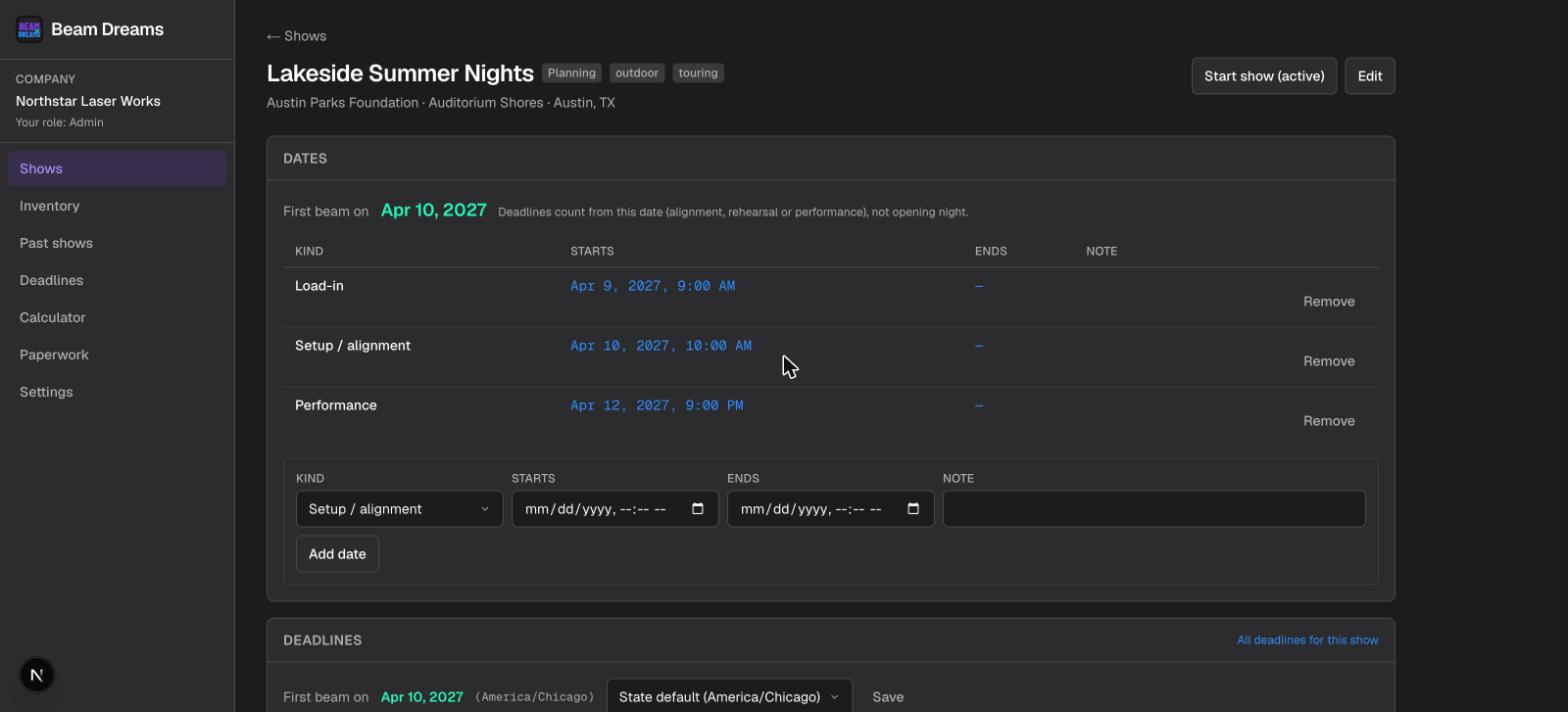
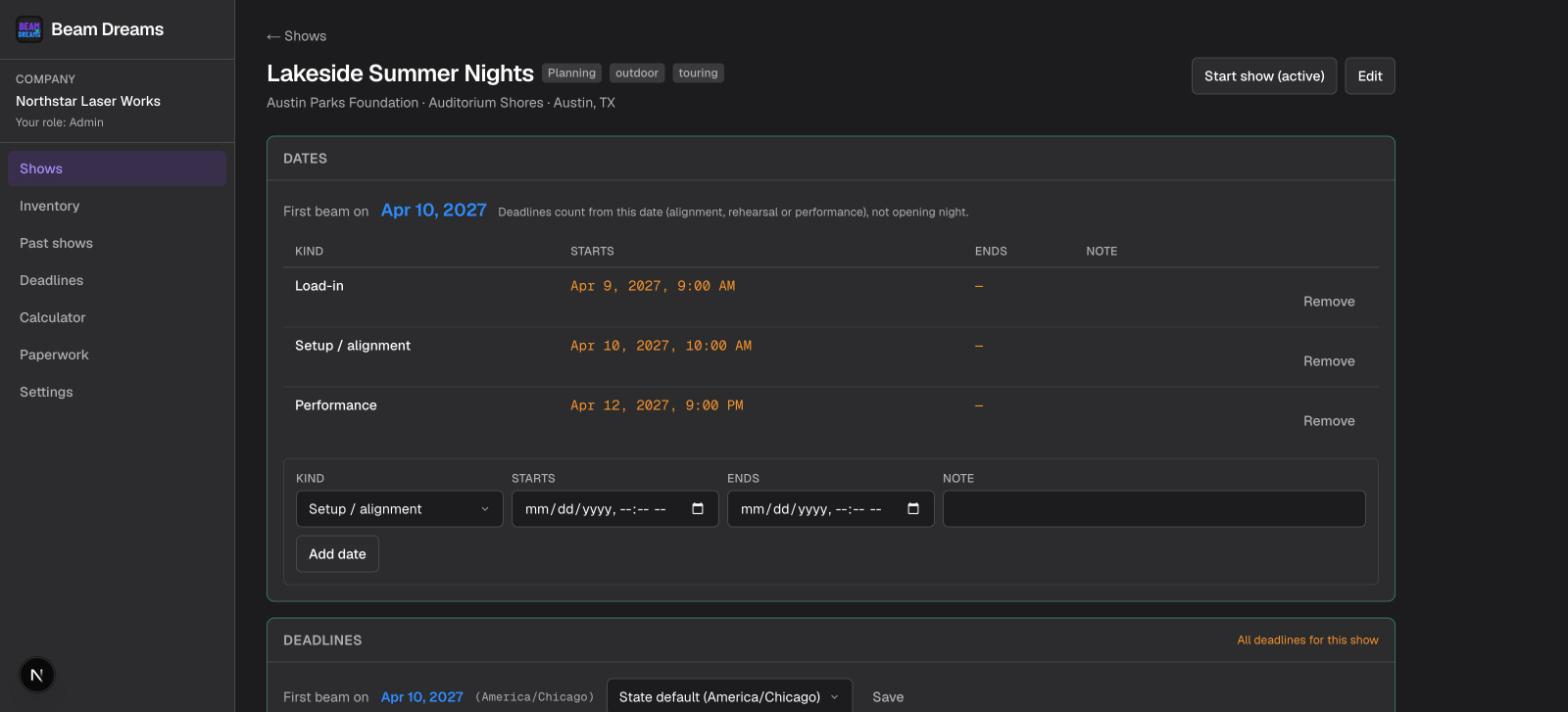
Palette revision: orange info, blue highlights, cyan edges; new screenshots

diff --git a/beta/index.html b/beta/index.html
@@ -18,7 +18,7 @@
 <link href="https://fonts.googleapis.com/css2?family=Archivo:wght@500;700;900&family=Spline+Sans+Mono:wght@400;500&display=swap" rel="stylesheet">
 <style>
   :root{
-    --black:#141414;--purple:#7c3aed;--violet:#a78bfa;--blue:#2e8bff;--cyan:#00f5b8;
+    --black:#141414;--purple:#7c3aed;--violet:#a78bfa;--orange:#f5912b;--blue:#2e8bff;--cyan:#00f5b8;--edge:rgba(0,245,184,.45);
     --ink:#f7f6f3;--dim:#aeaeb2;--line:#2c2c2e;--panel:#1c1c1e;
   }
   *{margin:0;padding:0;box-sizing:border-box}
@@ -26,36 +26,36 @@
     display:flex;align-items:center;justify-content:center;text-align:center;padding:56px 24px;-webkit-font-smoothing:antialiased}
   .card{max-width:760px;width:100%}
   .logo{width:108px;height:108px;border-radius:24px;margin:0 auto 28px;display:block}
-  .eyebrow{font-family:'Spline Sans Mono',monospace;font-size:13px;letter-spacing:4px;color:var(--cyan);text-transform:uppercase;margin-bottom:16px}
-  .get{font-weight:700;font-size:clamp(20px,5vw,28px);color:var(--blue);letter-spacing:-.5px;margin-bottom:2px}
+  .eyebrow{font-family:'Spline Sans Mono',monospace;font-size:13px;letter-spacing:4px;color:var(--blue);text-transform:uppercase;margin-bottom:16px}
+  .get{font-weight:700;font-size:clamp(20px,5vw,28px);color:var(--orange);letter-spacing:-.5px;margin-bottom:2px}
   h1{font-weight:900;font-size:clamp(38px,10vw,60px);line-height:.98;letter-spacing:-1.5px;margin-bottom:18px;color:var(--violet)}
-  h1 .d{color:var(--blue)}
+  h1 .d{color:var(--orange)}
   .tagline{font-family:'Spline Sans Mono',monospace;margin:0 auto 20px;max-width:420px;line-height:1.5}
   .tag-lead{display:block;font-size:13px;color:var(--dim);letter-spacing:.5px;margin-bottom:6px;font-style:italic}
-  .tag-pay{display:block;font-size:15px;color:var(--cyan);letter-spacing:2px;text-transform:uppercase;font-weight:500}
+  .tag-pay{display:block;font-size:15px;color:var(--blue);letter-spacing:2px;text-transform:uppercase;font-weight:500}
   p.lede{font-size:17px;color:var(--dim);margin-bottom:34px;line-height:1.55}
   .btn{font-family:'Archivo';font-weight:700;font-size:16px;border:none;cursor:pointer;text-decoration:none;
     background:var(--purple);color:#fff;padding:16px 32px;border-radius:9px;transition:.18s;display:inline-block}
   .btn:hover{background:#8b5cf6;transform:translateY(-1px)}
   .btn.alt{background:var(--panel);color:var(--ink);border:1px solid var(--line)}
-  .btn.alt:hover{border-color:var(--blue);background:#222226}
+  .btn.alt:hover{border-color:var(--orange);background:#222226}
   .meta{font-family:'Spline Sans Mono',monospace;font-size:12px;color:var(--dim);margin-top:18px;letter-spacing:.5px;line-height:1.8}
-  .meta b{color:var(--blue);font-weight:500}
-  .meta a{color:var(--blue);text-decoration:none}
-  .meta a.c{color:var(--cyan)} .meta a.v{color:var(--violet)}
-  .shot{margin:44px auto 0;max-width:680px;width:100%;height:auto;border-radius:12px;border:1px solid var(--line);display:block;box-shadow:0 24px 60px rgba(0,0,0,.55)}
+  .meta b{color:var(--orange);font-weight:500}
+  .meta a{color:var(--orange);text-decoration:none}
+  .meta a.c{color:var(--blue)} .meta a.v{color:var(--violet)}
+  .shot{margin:44px auto 0;max-width:680px;width:100%;height:auto;border-radius:12px;border:1px solid var(--edge);display:block;box-shadow:0 24px 60px rgba(0,0,0,.55)}
   .rule{height:1px;background:var(--line);margin:44px auto 30px;max-width:340px}
   .note{font-family:'Spline Sans Mono',monospace;font-size:12px;color:var(--dim);margin-top:14px;letter-spacing:.5px;min-height:16px}
   .dlform{display:flex;flex-direction:column;gap:12px;max-width:380px;margin:0 auto}
   .dlform input,.dlform select{background:var(--panel);border:1px solid var(--line);color:var(--ink);font-family:'Archivo';font-size:15px;padding:15px 18px;border-radius:9px;text-align:center}
   .dlform select{text-align:center;appearance:none;-webkit-appearance:none}
-  .dlform input:focus,.dlform select:focus{outline:none;border-color:var(--cyan)}
+  .dlform input:focus,.dlform select:focus{outline:none;border-color:var(--blue)}
   .dlform .btn{width:100%}
   .btn:disabled{background:#2c2c2e;color:var(--dim);cursor:default;transform:none}
   .pillars{display:grid;grid-template-columns:repeat(auto-fit,minmax(190px,1fr));gap:12px;margin:34px auto 0;max-width:680px;text-align:left}
-  .pillar{background:var(--panel);border:1px solid var(--line);border-radius:12px;padding:16px}
+  .pillar{background:var(--panel);border:1px solid var(--edge);border-radius:12px;padding:16px}
   .pillar h3{font-size:14px;font-weight:700;margin-bottom:6px}
-  .pillar h3.p{color:var(--violet)} .pillar h3.b{color:var(--blue)} .pillar h3.c{color:var(--cyan)}
+  .pillar h3.p{color:var(--violet)} .pillar h3.b{color:var(--orange)} .pillar h3.c{color:var(--blue)}
   .pillar p{font-size:13px;color:var(--dim);line-height:1.5}
   @media(prefers-reduced-motion:reduce){.btn:hover{transform:none}}
 </style>
@@ -93,7 +93,7 @@
         <div style="height:10px"></div>
         <a class="btn alt" id="opentf" href="#" target="_blank" rel="noopener">Get the iPhone app (TestFlight)</a>
       </div>
-      <p class="note" id="note2" style="color:var(--cyan)"></p>
+      <p class="note" id="note2" style="color:var(--blue)"></p>
       <p class="meta"><a class="c" href="/beta/about">About &rarr;</a> &nbsp;·&nbsp; <a href="/beta/start">Getting started &rarr;</a> &nbsp;·&nbsp; <a class="v" href="/beta/changelog">What's new &rarr;</a></p>
     </div>
 

diff --git a/beta/thanks.html b/beta/thanks.html
@@ -10,14 +10,14 @@
 <link rel="preconnect" href="https://fonts.gstatic.com" crossorigin>
 <link href="https://fonts.googleapis.com/css2?family=Archivo:wght@500;700;900&family=Spline+Sans+Mono:wght@400;500&display=swap" rel="stylesheet">
 <style>
-  :root{--black:#141414;--purple:#7c3aed;--violet:#a78bfa;--blue:#2e8bff;--cyan:#00f5b8;--ink:#f7f6f3;--dim:#aeaeb2;--line:#2c2c2e;--panel:#1c1c1e}
+  :root{--black:#141414;--purple:#7c3aed;--violet:#a78bfa;--orange:#f5912b;--blue:#2e8bff;--cyan:#00f5b8;--edge:rgba(0,245,184,.45);--ink:#f7f6f3;--dim:#aeaeb2;--line:#2c2c2e;--panel:#1c1c1e}
   *{margin:0;padding:0;box-sizing:border-box}
   body{background:var(--black);color:var(--ink);min-height:100vh;font-family:'Archivo',sans-serif;-webkit-font-smoothing:antialiased;display:flex;justify-content:center;padding:56px 24px}
   .card{max-width:520px;width:100%}
   .top{display:flex;align-items:center;gap:12px;margin-bottom:30px}
   .top img{width:46px;height:46px;border-radius:12px}
   .top a{margin-left:auto;font-family:'Spline Sans Mono',monospace;font-size:13px;color:var(--dim);text-decoration:none}
-  .top a:hover{color:var(--cyan)}
+  .top a:hover{color:var(--blue)}
   .eyebrow{font-family:'Spline Sans Mono',monospace;font-size:13px;letter-spacing:4px;text-transform:uppercase;margin-bottom:14px}
   h1{font-weight:900;font-size:clamp(32px,8vw,46px);line-height:1;letter-spacing:-1.2px;margin-bottom:14px}
   p.lede{font-size:16px;color:var(--dim);margin-bottom:30px;line-height:1.55}
@@ -25,28 +25,28 @@
   .field{margin-bottom:22px}
   input,textarea,select{width:100%;background:var(--panel);border:1px solid var(--line);color:var(--ink);font-family:'Archivo';font-size:15px;padding:13px 15px;border-radius:9px}
   select{appearance:none;-webkit-appearance:none}
-  input:focus,textarea:focus,select:focus{outline:none;border-color:var(--cyan)}
+  input:focus,textarea:focus,select:focus{outline:none;border-color:var(--blue)}
   textarea{resize:vertical;min-height:140px}
   .btn{font-family:'Archivo';font-weight:700;font-size:16px;border:none;cursor:pointer;width:100%;background:var(--purple);color:#fff;padding:16px;border-radius:9px;transition:.18s;margin-top:4px}
   .btn:hover{background:#8b5cf6}
   .btn:disabled{opacity:.45;cursor:default}
   .status{font-family:'Spline Sans Mono',monospace;font-size:13px;margin-top:16px;text-align:center;min-height:18px}
   .drop{display:block;padding:44px 24px;border:1.5px dashed var(--line);border-radius:12px;text-align:center;color:var(--dim);cursor:pointer;transition:.18s;background:var(--panel)}
-  .drop:hover,.drop.over{border-color:var(--cyan);color:var(--ink)}
+  .drop:hover,.drop.over{border-color:var(--blue);color:var(--ink)}
   .drop .big{font-size:17px;color:var(--ink);font-weight:700;margin-bottom:6px}
-  .drop .sub{font-size:13px} .drop b{color:var(--cyan);font-weight:500} .drop input{display:none}
+  .drop .sub{font-size:13px} .drop b{color:var(--blue);font-weight:500} .drop input{display:none}
   #fileList{margin-top:16px;text-align:left}
-  .item{font-family:'Spline Sans Mono',monospace;font-size:13px;color:var(--blue);background:var(--panel);border:1px solid var(--line);border-radius:8px;padding:10px 14px;margin-top:8px;display:flex;justify-content:space-between;align-items:center}
+  .item{font-family:'Spline Sans Mono',monospace;font-size:13px;color:var(--orange);background:var(--panel);border:1px solid var(--line);border-radius:8px;padding:10px 14px;margin-top:8px;display:flex;justify-content:space-between;align-items:center}
   .item .x{color:var(--dim);cursor:pointer;font-size:16px;line-height:1} .item .x:hover{color:var(--violet)}
   .small{font-family:'Spline Sans Mono',monospace;font-size:12px;color:var(--dim);text-align:center;margin-top:24px;letter-spacing:.5px}
   .small a{text-decoration:none}
   body{align-items:center;text-align:center}
   .card{max-width:480px}
   img.l{width:54px;height:54px;border-radius:14px;margin-bottom:26px}
-  .check{display:inline-flex;align-items:center;justify-content:center;width:72px;height:72px;border-radius:50%;background:rgba(0,245,184,.12);color:var(--cyan);font-size:34px;margin-bottom:22px}
+  .check{display:inline-flex;align-items:center;justify-content:center;width:72px;height:72px;border-radius:50%;background:rgba(46,139,255,.15);color:var(--blue);box-shadow:0 0 0 1px var(--edge);font-size:34px;margin-bottom:22px}
   p{font-size:16px;color:var(--dim);margin-bottom:30px;line-height:1.55}
-  a.back{font-family:'Spline Sans Mono',monospace;font-size:13px;letter-spacing:1px;color:var(--blue);text-decoration:none;border:1px solid var(--line);padding:12px 22px;border-radius:9px;display:inline-block;transition:.18s}
-  a.back:hover{border-color:var(--cyan);color:var(--ink)}
+  a.back{font-family:'Spline Sans Mono',monospace;font-size:13px;letter-spacing:1px;color:var(--orange);text-decoration:none;border:1px solid var(--line);padding:12px 22px;border-radius:9px;display:inline-block;transition:.18s}
+  a.back:hover{border-color:var(--blue);color:var(--ink)}
 </style>
 </head>
 <body>

diff --git a/beta/report.html b/beta/report.html
@@ -10,14 +10,14 @@
 <link rel="preconnect" href="https://fonts.gstatic.com" crossorigin>
 <link href="https://fonts.googleapis.com/css2?family=Archivo:wght@500;700;900&family=Spline+Sans+Mono:wght@400;500&display=swap" rel="stylesheet">
 <style>
-  :root{--black:#141414;--purple:#7c3aed;--violet:#a78bfa;--blue:#2e8bff;--cyan:#00f5b8;--ink:#f7f6f3;--dim:#aeaeb2;--line:#2c2c2e;--panel:#1c1c1e}
+  :root{--black:#141414;--purple:#7c3aed;--violet:#a78bfa;--orange:#f5912b;--blue:#2e8bff;--cyan:#00f5b8;--edge:rgba(0,245,184,.45);--ink:#f7f6f3;--dim:#aeaeb2;--line:#2c2c2e;--panel:#1c1c1e}
   *{margin:0;padding:0;box-sizing:border-box}
   body{background:var(--black);color:var(--ink);min-height:100vh;font-family:'Archivo',sans-serif;-webkit-font-smoothing:antialiased;display:flex;justify-content:center;padding:56px 24px}
   .card{max-width:520px;width:100%}
   .top{display:flex;align-items:center;gap:12px;margin-bottom:30px}
   .top img{width:46px;height:46px;border-radius:12px}
   .top a{margin-left:auto;font-family:'Spline Sans Mono',monospace;font-size:13px;color:var(--dim);text-decoration:none}
-  .top a:hover{color:var(--cyan)}
+  .top a:hover{color:var(--blue)}
   .eyebrow{font-family:'Spline Sans Mono',monospace;font-size:13px;letter-spacing:4px;text-transform:uppercase;margin-bottom:14px}
   h1{font-weight:900;font-size:clamp(32px,8vw,46px);line-height:1;letter-spacing:-1.2px;margin-bottom:14px}
   p.lede{font-size:16px;color:var(--dim);margin-bottom:30px;line-height:1.55}
@@ -25,18 +25,18 @@
   .field{margin-bottom:22px}
   input,textarea,select{width:100%;background:var(--panel);border:1px solid var(--line);color:var(--ink);font-family:'Archivo';font-size:15px;padding:13px 15px;border-radius:9px}
   select{appearance:none;-webkit-appearance:none}
-  input:focus,textarea:focus,select:focus{outline:none;border-color:var(--cyan)}
+  input:focus,textarea:focus,select:focus{outline:none;border-color:var(--blue)}
   textarea{resize:vertical;min-height:140px}
   .btn{font-family:'Archivo';font-weight:700;font-size:16px;border:none;cursor:pointer;width:100%;background:var(--purple);color:#fff;padding:16px;border-radius:9px;transition:.18s;margin-top:4px}
   .btn:hover{background:#8b5cf6}
   .btn:disabled{opacity:.45;cursor:default}
   .status{font-family:'Spline Sans Mono',monospace;font-size:13px;margin-top:16px;text-align:center;min-height:18px}
-  .drop{display:block;padding:44px 24px;border:1.5px dashed var(--line);border-radius:12px;text-align:center;color:var(--dim);cursor:pointer;transition:.18s;background:var(--panel)}
-  .drop:hover,.drop.over{border-color:var(--cyan);color:var(--ink)}
+  .drop{display:block;padding:44px 24px;border:1.5px dashed var(--edge);border-radius:12px;text-align:center;color:var(--dim);cursor:pointer;transition:.18s;background:var(--panel)}
+  .drop:hover,.drop.over{border-color:var(--blue);color:var(--ink)}
   .drop .big{font-size:17px;color:var(--ink);font-weight:700;margin-bottom:6px}
-  .drop .sub{font-size:13px} .drop b{color:var(--cyan);font-weight:500} .drop input{display:none}
+  .drop .sub{font-size:13px} .drop b{color:var(--blue);font-weight:500} .drop input{display:none}
   #fileList{margin-top:16px;text-align:left}
-  .item{font-family:'Spline Sans Mono',monospace;font-size:13px;color:var(--blue);background:var(--panel);border:1px solid var(--line);border-radius:8px;padding:10px 14px;margin-top:8px;display:flex;justify-content:space-between;align-items:center}
+  .item{font-family:'Spline Sans Mono',monospace;font-size:13px;color:var(--orange);background:var(--panel);border:1px solid var(--line);border-radius:8px;padding:10px 14px;margin-top:8px;display:flex;justify-content:space-between;align-items:center}
   .item .x{color:var(--dim);cursor:pointer;font-size:16px;line-height:1} .item .x:hover{color:var(--violet)}
   .small{font-family:'Spline Sans Mono',monospace;font-size:12px;color:var(--dim);text-align:center;margin-top:24px;letter-spacing:.5px}
   .small a{text-decoration:none}
@@ -68,7 +68,7 @@
       <button type="submit" class="btn" id="submit" disabled>Send report</button>
       <p class="status" id="status"></p>
     </form>
-    <p class="small">Just a thought? <a href="/beta/feedback" style="color:var(--blue)">Send feedback &rarr;</a> &nbsp;·&nbsp; <a href="mailto:support@beamdreams.art" style="color:var(--blue)">support@beamdreams.art</a></p>
+    <p class="small">Just a thought? <a href="/beta/feedback" style="color:var(--orange)">Send feedback &rarr;</a> &nbsp;·&nbsp; <a href="mailto:support@beamdreams.art" style="color:var(--orange)">support@beamdreams.art</a></p>
   </div>
 <script>
   var input=document.getElementById('files'),drop=document.getElementById('drop'),list=document.getElementById('fileList'),

diff --git a/beta/feedback.html b/beta/feedback.html
@@ -10,14 +10,14 @@
 <link rel="preconnect" href="https://fonts.gstatic.com" crossorigin>
 <link href="https://fonts.googleapis.com/css2?family=Archivo:wght@500;700;900&family=Spline+Sans+Mono:wght@400;500&display=swap" rel="stylesheet">
 <style>
-  :root{--black:#141414;--purple:#7c3aed;--violet:#a78bfa;--blue:#2e8bff;--cyan:#00f5b8;--ink:#f7f6f3;--dim:#aeaeb2;--line:#2c2c2e;--panel:#1c1c1e}
+  :root{--black:#141414;--purple:#7c3aed;--violet:#a78bfa;--orange:#f5912b;--blue:#2e8bff;--cyan:#00f5b8;--edge:rgba(0,245,184,.45);--ink:#f7f6f3;--dim:#aeaeb2;--line:#2c2c2e;--panel:#1c1c1e}
   *{margin:0;padding:0;box-sizing:border-box}
   body{background:var(--black);color:var(--ink);min-height:100vh;font-family:'Archivo',sans-serif;-webkit-font-smoothing:antialiased;display:flex;justify-content:center;padding:56px 24px}
   .card{max-width:520px;width:100%}
   .top{display:flex;align-items:center;gap:12px;margin-bottom:30px}
   .top img{width:46px;height:46px;border-radius:12px}
   .top a{margin-left:auto;font-family:'Spline Sans Mono',monospace;font-size:13px;color:var(--dim);text-decoration:none}
-  .top a:hover{color:var(--cyan)}
+  .top a:hover{color:var(--blue)}
   .eyebrow{font-family:'Spline Sans Mono',monospace;font-size:13px;letter-spacing:4px;text-transform:uppercase;margin-bottom:14px}
   h1{font-weight:900;font-size:clamp(32px,8vw,46px);line-height:1;letter-spacing:-1.2px;margin-bottom:14px}
   p.lede{font-size:16px;color:var(--dim);margin-bottom:30px;line-height:1.55}
@@ -25,18 +25,18 @@
   .field{margin-bottom:22px}
   input,textarea,select{width:100%;background:var(--panel);border:1px solid var(--line);color:var(--ink);font-family:'Archivo';font-size:15px;padding:13px 15px;border-radius:9px}
   select{appearance:none;-webkit-appearance:none}
-  input:focus,textarea:focus,select:focus{outline:none;border-color:var(--cyan)}
+  input:focus,textarea:focus,select:focus{outline:none;border-color:var(--blue)}
   textarea{resize:vertical;min-height:140px}
   .btn{font-family:'Archivo';font-weight:700;font-size:16px;border:none;cursor:pointer;width:100%;background:var(--purple);color:#fff;padding:16px;border-radius:9px;transition:.18s;margin-top:4px}
   .btn:hover{background:#8b5cf6}
   .btn:disabled{opacity:.45;cursor:default}
   .status{font-family:'Spline Sans Mono',monospace;font-size:13px;margin-top:16px;text-align:center;min-height:18px}
   .drop{display:block;padding:44px 24px;border:1.5px dashed var(--line);border-radius:12px;text-align:center;color:var(--dim);cursor:pointer;transition:.18s;background:var(--panel)}
-  .drop:hover,.drop.over{border-color:var(--cyan);color:var(--ink)}
+  .drop:hover,.drop.over{border-color:var(--blue);color:var(--ink)}
   .drop .big{font-size:17px;color:var(--ink);font-weight:700;margin-bottom:6px}
-  .drop .sub{font-size:13px} .drop b{color:var(--cyan);font-weight:500} .drop input{display:none}
+  .drop .sub{font-size:13px} .drop b{color:var(--blue);font-weight:500} .drop input{display:none}
   #fileList{margin-top:16px;text-align:left}
-  .item{font-family:'Spline Sans Mono',monospace;font-size:13px;color:var(--blue);background:var(--panel);border:1px solid var(--line);border-radius:8px;padding:10px 14px;margin-top:8px;display:flex;justify-content:space-between;align-items:center}
+  .item{font-family:'Spline Sans Mono',monospace;font-size:13px;color:var(--orange);background:var(--panel);border:1px solid var(--line);border-radius:8px;padding:10px 14px;margin-top:8px;display:flex;justify-content:space-between;align-items:center}
   .item .x{color:var(--dim);cursor:pointer;font-size:16px;line-height:1} .item .x:hover{color:var(--violet)}
   .small{font-family:'Spline Sans Mono',monospace;font-size:12px;color:var(--dim);text-align:center;margin-top:24px;letter-spacing:.5px}
   .small a{text-decoration:none}
@@ -45,7 +45,7 @@
 <body>
   <div class="card">
     <div class="top"><img src="logo.png" alt="Beam Dreams"><a href="/beta/">&larr; Back</a></div>
-    <div class="eyebrow" style="color:var(--blue)">Beta feedback</div>
+    <div class="eyebrow" style="color:var(--orange)">Beta feedback</div>
     <h1>Send feedback.</h1>
     <p class="lede">An idea, a request, a rule I got wrong, or just how it's working for you? Drop it here — it comes straight to my inbox.</p>
 

diff --git a/beta/about.html b/beta/about.html
@@ -10,15 +10,15 @@
 <link rel="preconnect" href="https://fonts.gstatic.com" crossorigin>
 <link href="https://fonts.googleapis.com/css2?family=Archivo:wght@400;500;700;900&family=Spline+Sans+Mono:wght@400;500&display=swap" rel="stylesheet">
 <style>
-  :root{--black:#141414;--purple:#7c3aed;--violet:#a78bfa;--blue:#2e8bff;--cyan:#00f5b8;--ink:#f7f6f3;--dim:#aeaeb2;--line:#2c2c2e;--panel:#1c1c1e}
+  :root{--black:#141414;--purple:#7c3aed;--violet:#a78bfa;--orange:#f5912b;--blue:#2e8bff;--cyan:#00f5b8;--edge:rgba(0,245,184,.45);--ink:#f7f6f3;--dim:#aeaeb2;--line:#2c2c2e;--panel:#1c1c1e}
   *{margin:0;padding:0;box-sizing:border-box}
   body{background:var(--black);color:var(--ink);min-height:100vh;font-family:'Archivo',sans-serif;-webkit-font-smoothing:antialiased;display:flex;justify-content:center;padding:56px 24px}
   .card{max-width:680px;width:100%}
   .top{display:flex;align-items:center;gap:12px;margin-bottom:34px}
   .top img{width:46px;height:46px;border-radius:12px}
   .top a{margin-left:auto;font-family:'Spline Sans Mono',monospace;font-size:13px;color:var(--dim);text-decoration:none}
-  .top a:hover{color:var(--cyan)}
-  .eyebrow{font-family:'Spline Sans Mono',monospace;font-size:13px;letter-spacing:4px;color:var(--cyan);text-transform:uppercase;margin-bottom:14px}
+  .top a:hover{color:var(--blue)}
+  .eyebrow{font-family:'Spline Sans Mono',monospace;font-size:13px;letter-spacing:4px;color:var(--blue);text-transform:uppercase;margin-bottom:14px}
   h1{font-weight:900;font-size:clamp(32px,8vw,46px);line-height:1;letter-spacing:-1.2px;margin-bottom:14px}
   h2{font-weight:700;font-size:21px;letter-spacing:-.3px;margin:38px 0 14px;padding-top:28px;border-top:1px solid var(--line)}
   h2:first-of-type{border-top:none;padding-top:0}
@@ -29,15 +29,15 @@
   li{margin-bottom:8px}
   b,strong{color:var(--ink);font-weight:700}
   code{font-family:'Spline Sans Mono',monospace;font-size:13px;background:var(--panel);border:1px solid var(--line);border-radius:5px;padding:2px 6px;color:var(--violet)}
-  .box{background:var(--panel);border:1px solid var(--line);border-radius:12px;padding:6px 24px 22px;margin-top:14px}
-  .tag{display:inline-block;font-family:'Spline Sans Mono',monospace;font-size:11px;letter-spacing:2px;text-transform:uppercase;color:var(--blue);border:1px solid var(--line);border-radius:100px;padding:4px 12px;margin:22px 0 4px}
-  .tag.c{color:var(--cyan)} .tag.v{color:var(--violet)}
-  a.link{color:var(--blue);text-decoration:none} a.link:hover{text-decoration:underline}
+  .box{background:var(--panel);border:1px solid var(--edge);border-radius:12px;padding:6px 24px 22px;margin-top:14px}
+  .tag{display:inline-block;font-family:'Spline Sans Mono',monospace;font-size:11px;letter-spacing:2px;text-transform:uppercase;color:var(--orange);border:1px solid var(--line);border-radius:100px;padding:4px 12px;margin:22px 0 4px}
+  .tag.c{color:var(--blue)} .tag.v{color:var(--violet)}
+  a.link{color:var(--orange);text-decoration:none} a.link:hover{text-decoration:underline}
   .rel{font-family:'Spline Sans Mono',monospace;font-size:13px;color:var(--dim);margin-bottom:34px;letter-spacing:.5px}
-  .rel b{color:var(--blue);font-weight:500}
-  .intro{background:var(--panel);border:1px solid var(--line);border-radius:9px;padding:14px 16px;font-size:14px;margin-bottom:8px}
+  .rel b{color:var(--orange);font-weight:500}
+  .intro{background:var(--panel);border:1px solid var(--edge);border-radius:9px;padding:14px 16px;font-size:14px;margin-bottom:8px}
   .foot{margin-top:40px;padding-top:24px;border-top:1px solid var(--line);font-family:'Spline Sans Mono',monospace;font-size:12px;color:var(--dim);letter-spacing:.5px;line-height:1.8}
-  .foot a{color:var(--blue);text-decoration:none}
+  .foot a{color:var(--orange);text-decoration:none}
 </style>
 </head>
 <body>

diff --git a/beta/changelog.html b/beta/changelog.html
@@ -10,15 +10,15 @@
 <link rel="preconnect" href="https://fonts.gstatic.com" crossorigin>
 <link href="https://fonts.googleapis.com/css2?family=Archivo:wght@400;500;700;900&family=Spline+Sans+Mono:wght@400;500&display=swap" rel="stylesheet">
 <style>
-  :root{--black:#141414;--purple:#7c3aed;--violet:#a78bfa;--blue:#2e8bff;--cyan:#00f5b8;--ink:#f7f6f3;--dim:#aeaeb2;--line:#2c2c2e;--panel:#1c1c1e}
+  :root{--black:#141414;--purple:#7c3aed;--violet:#a78bfa;--orange:#f5912b;--blue:#2e8bff;--cyan:#00f5b8;--edge:rgba(0,245,184,.45);--ink:#f7f6f3;--dim:#aeaeb2;--line:#2c2c2e;--panel:#1c1c1e}
   *{margin:0;padding:0;box-sizing:border-box}
   body{background:var(--black);color:var(--ink);min-height:100vh;font-family:'Archivo',sans-serif;-webkit-font-smoothing:antialiased;display:flex;justify-content:center;padding:56px 24px}
   .card{max-width:680px;width:100%}
   .top{display:flex;align-items:center;gap:12px;margin-bottom:34px}
   .top img{width:46px;height:46px;border-radius:12px}
   .top a{margin-left:auto;font-family:'Spline Sans Mono',monospace;font-size:13px;color:var(--dim);text-decoration:none}
-  .top a:hover{color:var(--cyan)}
-  .eyebrow{font-family:'Spline Sans Mono',monospace;font-size:13px;letter-spacing:4px;color:var(--cyan);text-transform:uppercase;margin-bottom:14px}
+  .top a:hover{color:var(--blue)}
+  .eyebrow{font-family:'Spline Sans Mono',monospace;font-size:13px;letter-spacing:4px;color:var(--blue);text-transform:uppercase;margin-bottom:14px}
   h1{font-weight:900;font-size:clamp(32px,8vw,46px);line-height:1;letter-spacing:-1.2px;margin-bottom:14px}
   h2{font-weight:700;font-size:21px;letter-spacing:-.3px;margin:38px 0 14px;padding-top:28px;border-top:1px solid var(--line)}
   h2:first-of-type{border-top:none;padding-top:0}
@@ -29,15 +29,15 @@
   li{margin-bottom:8px}
   b,strong{color:var(--ink);font-weight:700}
   code{font-family:'Spline Sans Mono',monospace;font-size:13px;background:var(--panel);border:1px solid var(--line);border-radius:5px;padding:2px 6px;color:var(--violet)}
-  .box{background:var(--panel);border:1px solid var(--line);border-radius:12px;padding:6px 24px 22px;margin-top:14px}
-  .tag{display:inline-block;font-family:'Spline Sans Mono',monospace;font-size:11px;letter-spacing:2px;text-transform:uppercase;color:var(--blue);border:1px solid var(--line);border-radius:100px;padding:4px 12px;margin:22px 0 4px}
-  .tag.c{color:var(--cyan)} .tag.v{color:var(--violet)}
-  a.link{color:var(--blue);text-decoration:none} a.link:hover{text-decoration:underline}
+  .box{background:var(--panel);border:1px solid var(--edge);border-radius:12px;padding:6px 24px 22px;margin-top:14px}
+  .tag{display:inline-block;font-family:'Spline Sans Mono',monospace;font-size:11px;letter-spacing:2px;text-transform:uppercase;color:var(--orange);border:1px solid var(--line);border-radius:100px;padding:4px 12px;margin:22px 0 4px}
+  .tag.c{color:var(--blue)} .tag.v{color:var(--violet)}
+  a.link{color:var(--orange);text-decoration:none} a.link:hover{text-decoration:underline}
   .rel{font-family:'Spline Sans Mono',monospace;font-size:13px;color:var(--dim);margin-bottom:34px;letter-spacing:.5px}
-  .rel b{color:var(--blue);font-weight:500}
-  .intro{background:var(--panel);border:1px solid var(--line);border-radius:9px;padding:14px 16px;font-size:14px;margin-bottom:8px}
+  .rel b{color:var(--orange);font-weight:500}
+  .intro{background:var(--panel);border:1px solid var(--edge);border-radius:9px;padding:14px 16px;font-size:14px;margin-bottom:8px}
   .foot{margin-top:40px;padding-top:24px;border-top:1px solid var(--line);font-family:'Spline Sans Mono',monospace;font-size:12px;color:var(--dim);letter-spacing:.5px;line-height:1.8}
-  .foot a{color:var(--blue);text-decoration:none}
+  .foot a{color:var(--orange);text-decoration:none}
 </style>
 </head>
 <body>

diff --git a/beta/start.html b/beta/start.html
@@ -10,15 +10,15 @@
 <link rel="preconnect" href="https://fonts.gstatic.com" crossorigin>
 <link href="https://fonts.googleapis.com/css2?family=Archivo:wght@400;500;700;900&family=Spline+Sans+Mono:wght@400;500&display=swap" rel="stylesheet">
 <style>
-  :root{--black:#141414;--purple:#7c3aed;--violet:#a78bfa;--blue:#2e8bff;--cyan:#00f5b8;--ink:#f7f6f3;--dim:#aeaeb2;--line:#2c2c2e;--panel:#1c1c1e}
+  :root{--black:#141414;--purple:#7c3aed;--violet:#a78bfa;--orange:#f5912b;--blue:#2e8bff;--cyan:#00f5b8;--edge:rgba(0,245,184,.45);--ink:#f7f6f3;--dim:#aeaeb2;--line:#2c2c2e;--panel:#1c1c1e}
   *{margin:0;padding:0;box-sizing:border-box}
   body{background:var(--black);color:var(--ink);min-height:100vh;font-family:'Archivo',sans-serif;-webkit-font-smoothing:antialiased;display:flex;justify-content:center;padding:56px 24px}
   .card{max-width:680px;width:100%}
   .top{display:flex;align-items:center;gap:12px;margin-bottom:34px}
   .top img{width:46px;height:46px;border-radius:12px}
   .top a{margin-left:auto;font-family:'Spline Sans Mono',monospace;font-size:13px;color:var(--dim);text-decoration:none}
-  .top a:hover{color:var(--cyan)}
-  .eyebrow{font-family:'Spline Sans Mono',monospace;font-size:13px;letter-spacing:4px;color:var(--cyan);text-transform:uppercase;margin-bottom:14px}
+  .top a:hover{color:var(--blue)}
+  .eyebrow{font-family:'Spline Sans Mono',monospace;font-size:13px;letter-spacing:4px;color:var(--blue);text-transform:uppercase;margin-bottom:14px}
   h1{font-weight:900;font-size:clamp(32px,8vw,46px);line-height:1;letter-spacing:-1.2px;margin-bottom:14px}
   h2{font-weight:700;font-size:21px;letter-spacing:-.3px;margin:38px 0 14px;padding-top:28px;border-top:1px solid var(--line)}
   h2:first-of-type{border-top:none;padding-top:0}
@@ -29,15 +29,15 @@
   li{margin-bottom:8px}
   b,strong{color:var(--ink);font-weight:700}
   code{font-family:'Spline Sans Mono',monospace;font-size:13px;background:var(--panel);border:1px solid var(--line);border-radius:5px;padding:2px 6px;color:var(--violet)}
-  .box{background:var(--panel);border:1px solid var(--line);border-radius:12px;padding:6px 24px 22px;margin-top:14px}
-  .tag{display:inline-block;font-family:'Spline Sans Mono',monospace;font-size:11px;letter-spacing:2px;text-transform:uppercase;color:var(--blue);border:1px solid var(--line);border-radius:100px;padding:4px 12px;margin:22px 0 4px}
-  .tag.c{color:var(--cyan)} .tag.v{color:var(--violet)}
-  a.link{color:var(--blue);text-decoration:none} a.link:hover{text-decoration:underline}
+  .box{background:var(--panel);border:1px solid var(--edge);border-radius:12px;padding:6px 24px 22px;margin-top:14px}
+  .tag{display:inline-block;font-family:'Spline Sans Mono',monospace;font-size:11px;letter-spacing:2px;text-transform:uppercase;color:var(--orange);border:1px solid var(--line);border-radius:100px;padding:4px 12px;margin:22px 0 4px}
+  .tag.c{color:var(--blue)} .tag.v{color:var(--violet)}
+  a.link{color:var(--orange);text-decoration:none} a.link:hover{text-decoration:underline}
   .rel{font-family:'Spline Sans Mono',monospace;font-size:13px;color:var(--dim);margin-bottom:34px;letter-spacing:.5px}
-  .rel b{color:var(--blue);font-weight:500}
-  .intro{background:var(--panel);border:1px solid var(--line);border-radius:9px;padding:14px 16px;font-size:14px;margin-bottom:8px}
+  .rel b{color:var(--orange);font-weight:500}
+  .intro{background:var(--panel);border:1px solid var(--edge);border-radius:9px;padding:14px 16px;font-size:14px;margin-bottom:8px}
   .foot{margin-top:40px;padding-top:24px;border-top:1px solid var(--line);font-family:'Spline Sans Mono',monospace;font-size:12px;color:var(--dim);letter-spacing:.5px;line-height:1.8}
-  .foot a{color:var(--blue);text-decoration:none}
+  .foot a{color:var(--orange);text-decoration:none}
 </style>
 </head>
 <body>

diff --git a/index.html b/index.html
@@ -16,6 +16,6 @@
 <meta name="twitter:card" content="summary_large_image">
 </head>
 <body style="font-family:system-ui;text-align:center;margin-top:20vh;background:#141414;color:#f7f6f3">
-Redirecting to the Beam Dreams beta… <a href="/beta/" style="color:#2e8bff">continue &rarr;</a>
+Redirecting to the Beam Dreams beta… <a href="/beta/" style="color:#f5912b">continue &rarr;</a>
 </body>
 </html>
